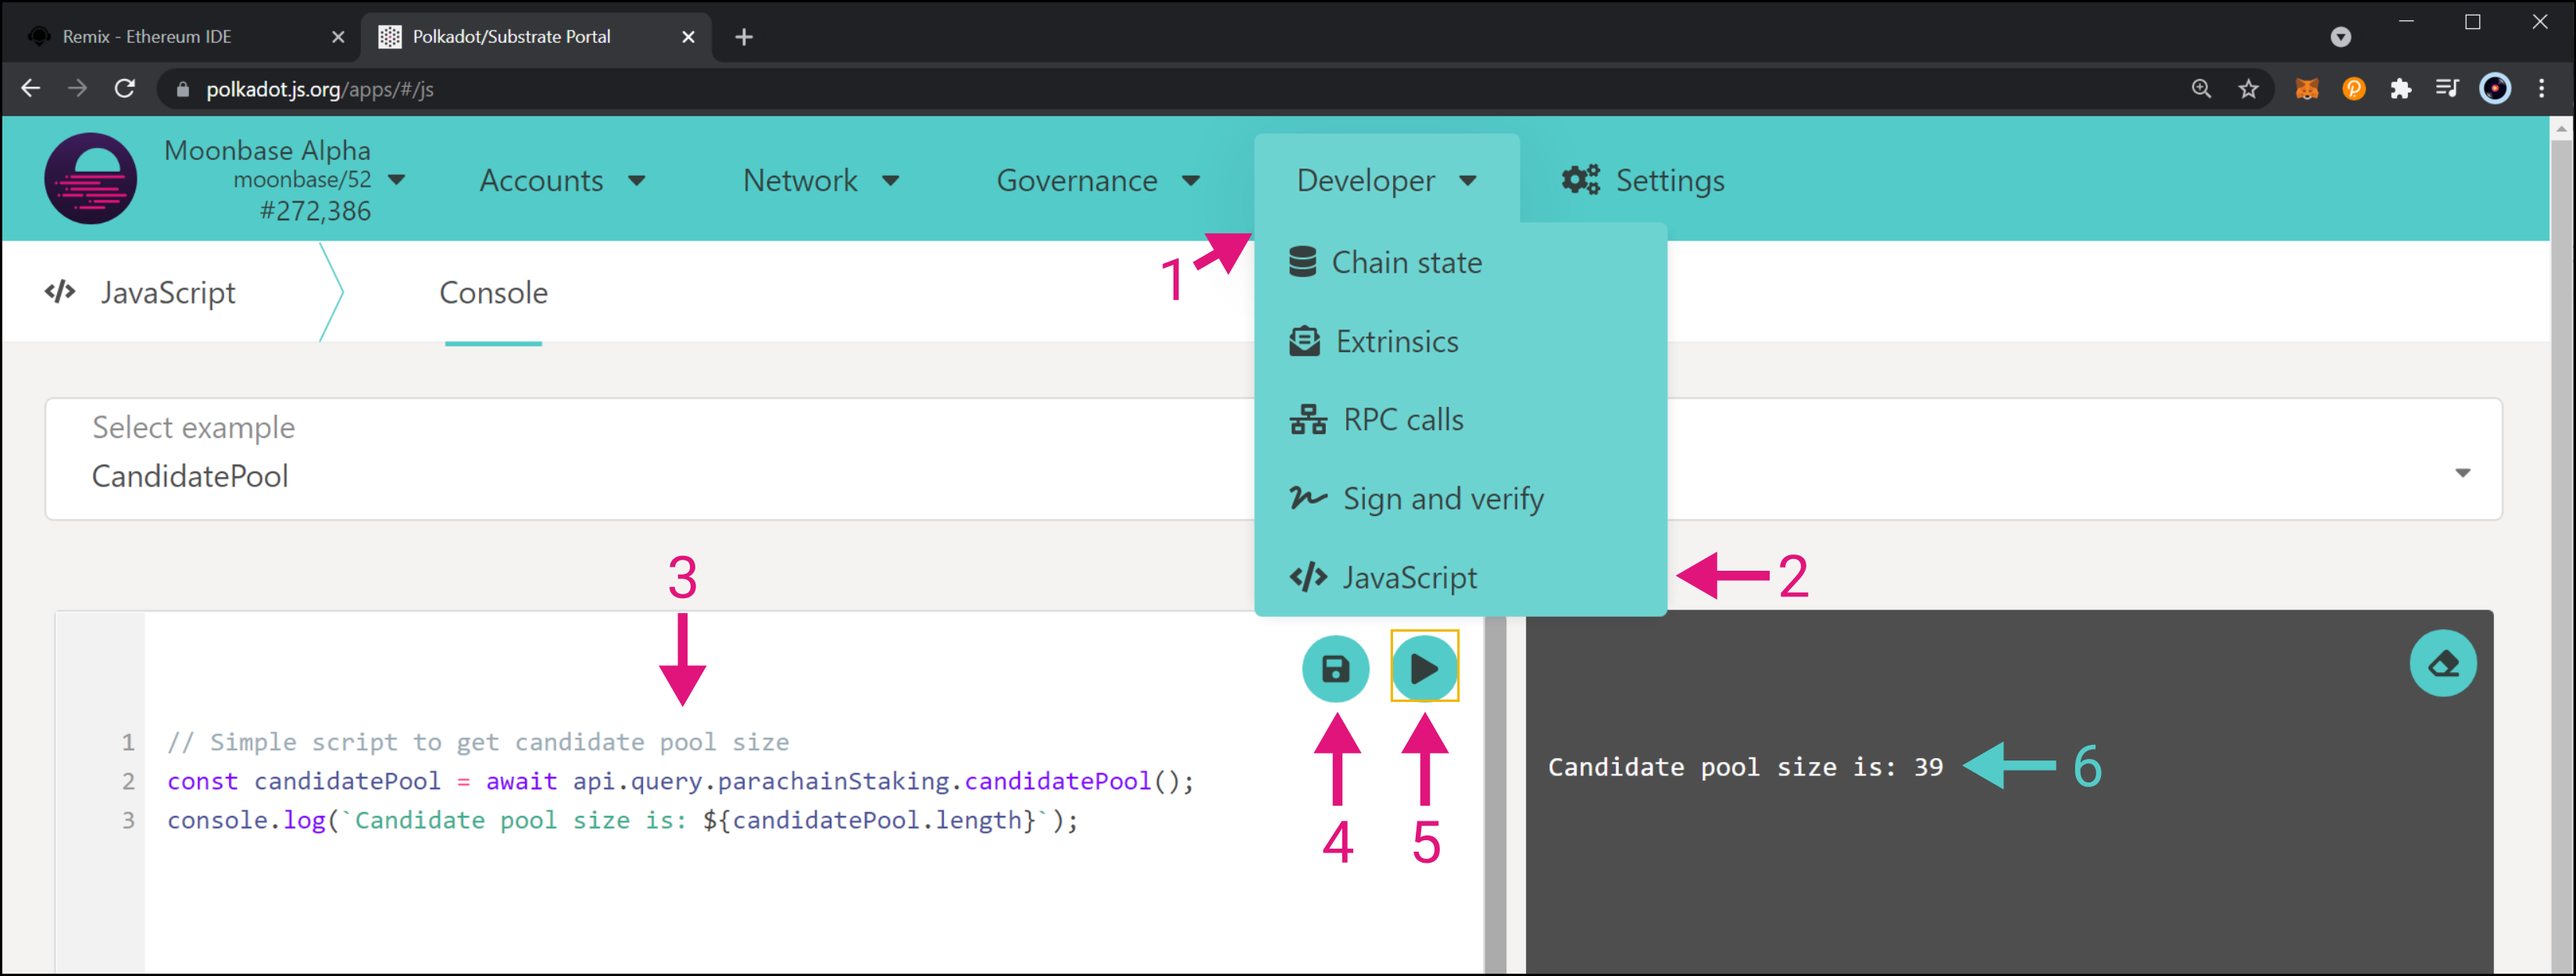
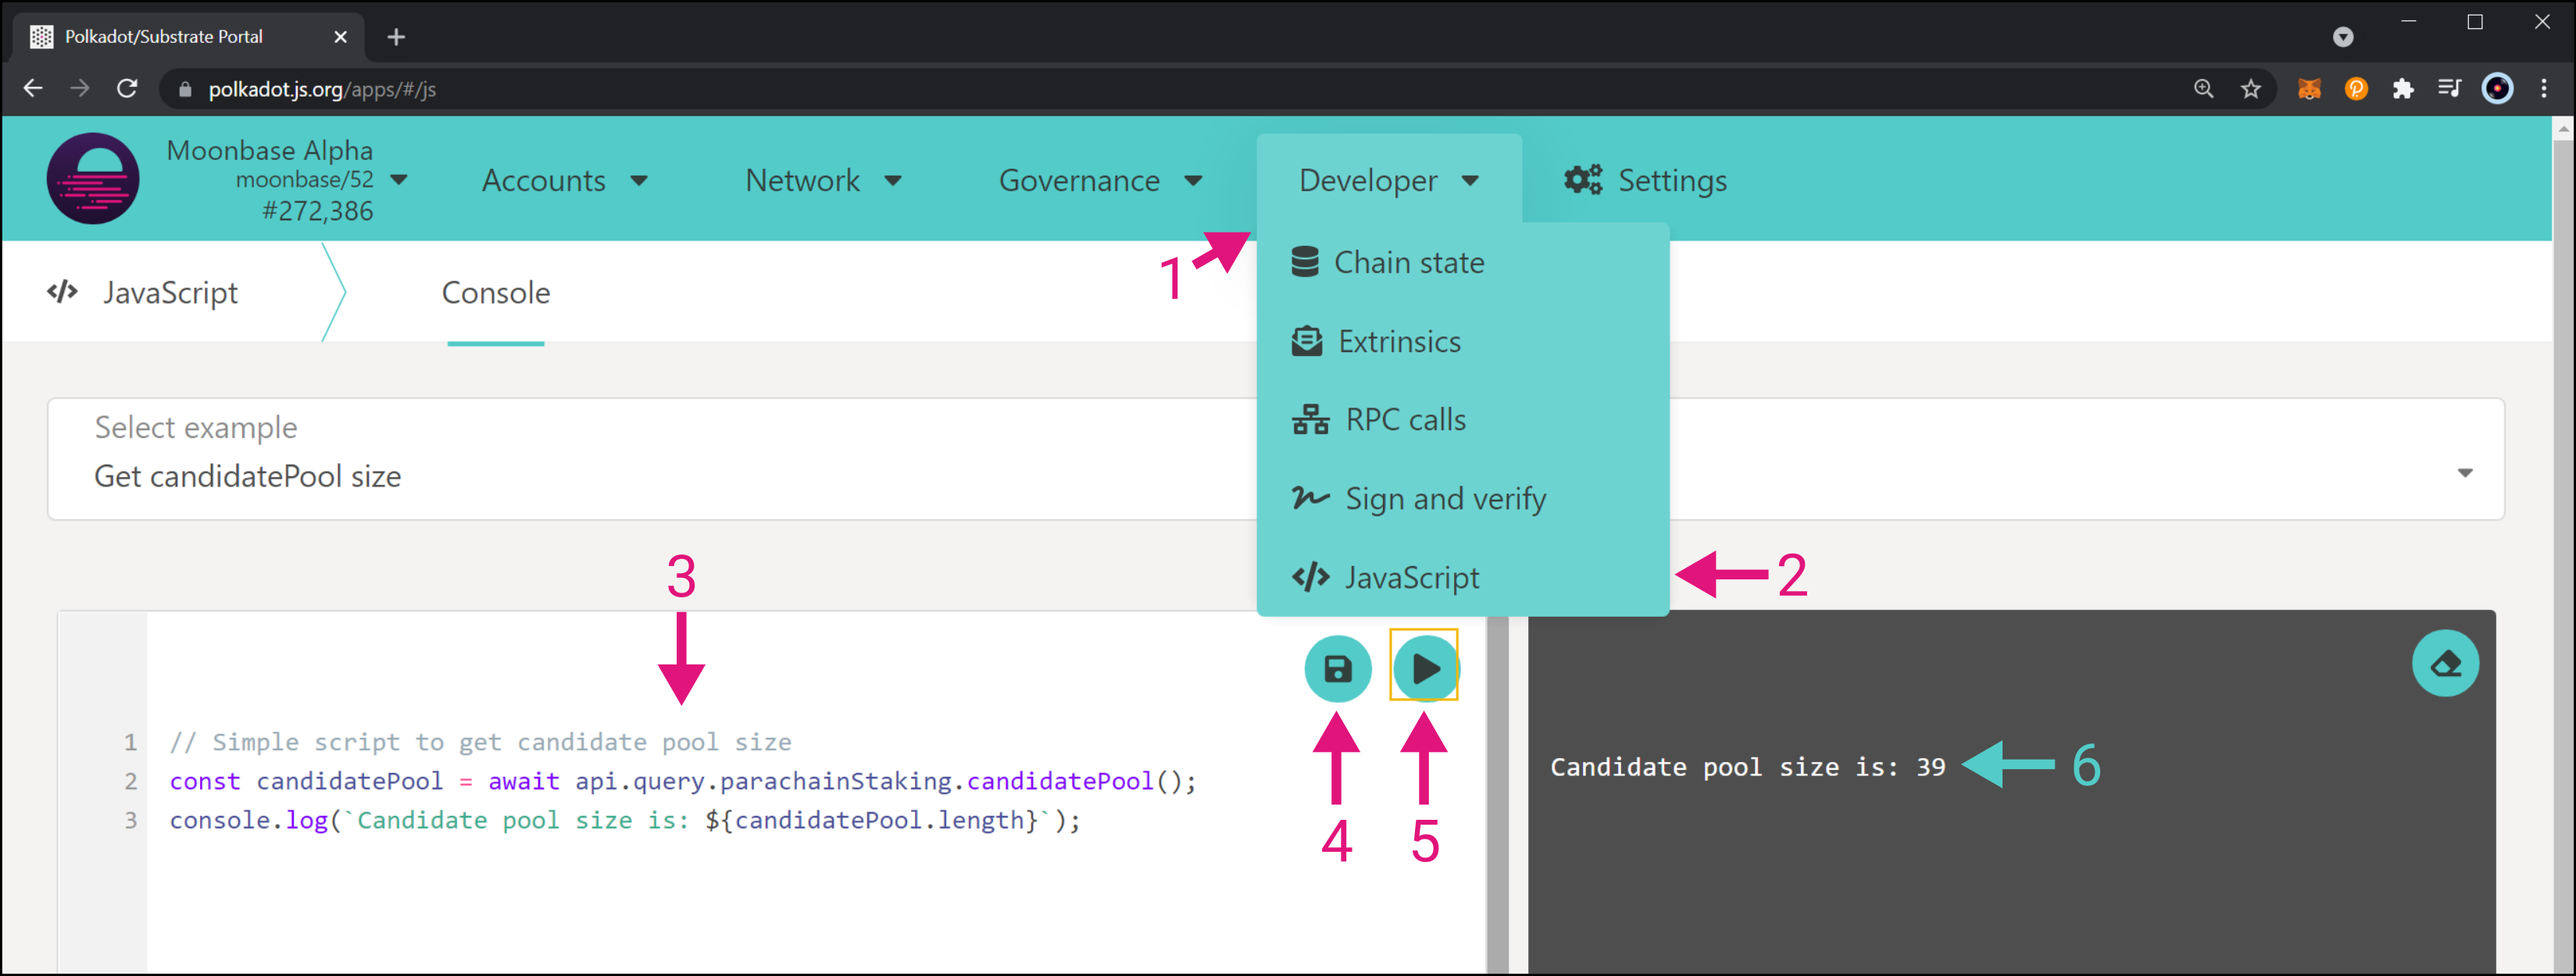
Other changes to collator tutorial

diff --git a/node-operators/networks/collator.md b/node-operators/networks/collator.md
@@ -53,11 +53,11 @@ Once you have an H160 account imported to PolkadotJS, you should see it under th
 
 ## Become a Collator Candidate
 
-### Get the Number of Candidates Selected
+### Get the Size of the Candidate Pool
 
-First, you need to get the `candidatePool` length (this can change thru governance) as you'll need to submit this parameter in a later transaction. To do so, you'll have to run the following JavaScript code snippet from within Polkadot.js Apps:
+First, you need to get the `candidatePool` size (this can change thru governance) as you'll need to submit this parameter in a later transaction. To do so, you'll have to run the following JavaScript code snippet from within [PolkadotJS](https://polkadot.js.org/apps/?rpc=wss%3A%2F%2Fwss.testnet.moonbeam.network#/js):
 
-```
+```js
 // Simple script to get candidate pool size
 const candidatePool = await api.query.parachainStaking.candidatePool();
 console.log(`Candidate pool size is: ${candidatePool.length}`);
@@ -66,7 +66,7 @@ console.log(`Candidate pool size is: ${candidatePool.length}`);
  1. Head to the "Developer" tab 
  2. Click on "JavaScript"
  3. Copy the code from the previous snippet and paste it inside the code editor box 
- 4. Click the save icon and set a name for the code snippet, for example, "CandidatePool"
+ 4. (Optional) Click the save icon and set a name for the code snippet, for example, "Get candidatePool size". This will save the code snippet locally
  5. Click on the run button. This will execute the code from the editor box
  6. Copy the result, as you'll need it when joining the candidate pool
 
@@ -74,15 +74,15 @@ console.log(`Candidate pool size is: ${candidatePool.length}`);
 
 ### Join the Candidate Pool
 
-Once your node is running and in sync with the network, you become a collator candidate (and join the candidate pool) by following the steps below in [PolkadotJS](https://polkadot.js.org/apps/?rpc=wss%3A%2F%2Fwss.testnet.moonbeam.network#/accounts):
+Once your node is running and in sync with the network, you become a collator candidate (and join the candidate pool) by following the steps below in [PolkadotJS](https://polkadot.js.org/apps/?rpc=wss%3A%2F%2Fwss.testnet.moonbeam.network#/extrinsics):
 
  1. Navigate to the "Developers" tab and click on "Extrinsics"
  2. Select the account you want to be associated with your collation activities
  3. Confirm your collator account is funded with at least {{ networks.moonbase.staking.collator_min_stake }} DEV tokens plus some extra for transaction fees 
  4. Select `parachainStaking` pallet under the "submit the following extrinsics" menu
  5. Open the drop-down menu, which lists all the possible extrinsics related to staking, and select the `joinCandidates()` function
- 6. Set the bond to at least {{ networks.moonbase.staking.collator_min_stake }}, which is the minimum amount to be considered a collator candidate. Only collator bond counts for this check. Additional nominations do not count
- 7. Set the candidate count to the value returned by the `totalSelected` chain state query, currently `{{ networks.moonbase.staking.max_collators }}`. To learn how to retrieve this value, check [this section](#get-the-number-of-candidates-selected)
+ 6. Set the bond to at least {{ networks.moonbase.staking.collator_min_stake }} DEV tokens, which is the minimum amount to be considered a collator candidate on Moonbase Alpha. Only collator bond counts for this check. Additional nominations do not count
+ 7. Set the candidate count as the candidate pool size. To learn how to retrieve this value, check [this section](#get-the-size-of-the-candidate-pool)
  8. Submit the transaction. Follow the wizard and sign the transaction using the password you set for the account
 
 ![Join Collators pool PolkadotJS](/images/fullnode/collator-polkadotjs3.png)
